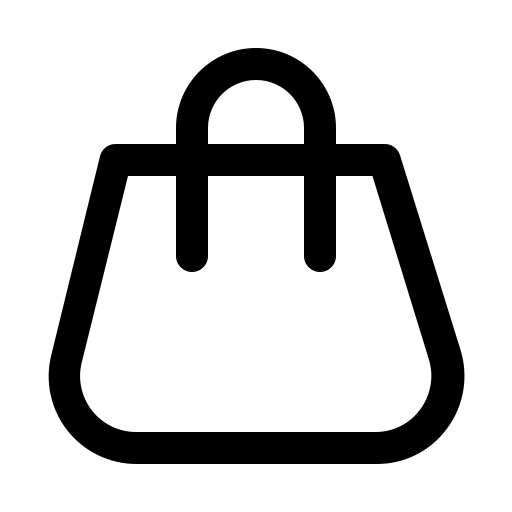
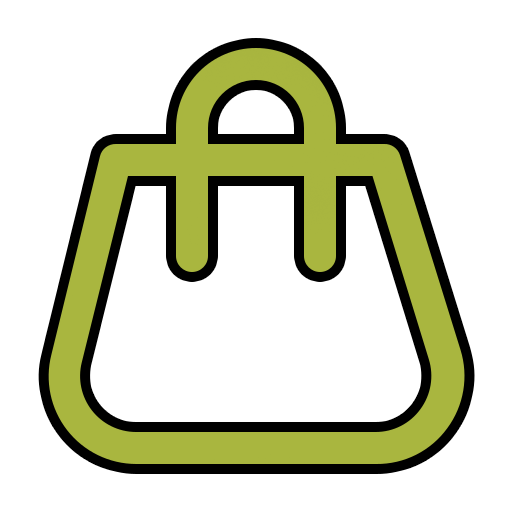
finished first MVP

diff --git a/index.html b/index.html
@@ -4,7 +4,7 @@
     <title>Hleb</title>
     <meta property="og:title" content="TIMHLIB" />
     <meta name="viewport" content="width=device-width, initial-scale=1.0" />
-    <meta charset="utf-8" />
+    <meta charset="utf-8">
     <link
             rel="stylesheet"
             href="https://fonts.googleapis.com/css2?family=Rubik:ital,wght@0,300;0,400;0,500;0,600;0,700;0,800;0,900;1,300;1,400;1,500;1,600;1,700;1,800;1,900&amp;display=swap"
@@ -113,9 +113,7 @@
                               </span>
                                 </p>
                                 <a
-                                        href="https://example.com"
-                                        target="_blank"
-                                        rel="noreferrer noopener"
+                                        href="#about-us"
                                         class="header-link"
                                 >
                                     <span>Почати</span>
@@ -145,9 +143,7 @@
                               </span>
                                 </p>
                                 <a
-                                        href="https://example.com"
-                                        target="_blank"
-                                        rel="noreferrer noopener"
+                                        href="#about-us"
                                         class="header-link"
                                 >
                                     <span>Почати</span>
@@ -165,7 +161,7 @@
                                 <h2 class="header-description">
                               <span>
                               Lorem ipsum dolor sit amet, consectetur adipiscing elit, sed do
-                              eiusmod consectetur tempor incididunt. Lorem ipsum dolor sit amet consectetur adipisicing elit. Corrupti, natus.
+                              eiusmod consectetur tempor incididunt. Lorem ipsum dolor sit amet consectetur.
                               </span>
                                 </h2>
                                 <div class="head_separator" style="width: 100% !important;"></div>
@@ -173,15 +169,12 @@
                               <span>
                               Lorem ipsum dolor sit amet, consectetur adipiscing elit, sed do
                               eiusmod consectetur tempor incididunt.&nbsp;Lorem ipsum dolor
-                              sit. Lorem ipsum, dolor sit amet consectetur adipisicing elit. Ea, temporibus!
+                              sit.
                               </span>
                                 </p>
                                 <a
-                                        href="https://example.com"
-                                        target="_blank"
-                                        rel="noreferrer noopener"
-                                        class="header-link"
-                                >
+                                        href="#about-us"
+                                        class="header-link">
                                     <span>Почати</span>
                                 </a>
                             </div>
@@ -203,7 +196,7 @@
                 <h1 class="about-us-text title_black">Про Компанiю</h1>
                 <div class="separator" id="about-us-separator">
                     <div class="left_separator"></div>
-                    <img src="./img/separator_icon.svg" alt="wheat">
+                    <img src="./img/separator_icon.png" alt="wheat">
                     <div class="right_separator"></div>
                 </div>
                 <p class="about-us-paragraph description_black">
@@ -223,6 +216,7 @@
                                 alt="image"
                                 src="./img/check.png"
                                 class="about_us_icon"
+
                         />
                         <span class="about_icon_description">Контроль Якості</span>
                     </div>
@@ -405,44 +399,44 @@
             <h1 class="home-text17 title_black">Наші Переваги</h1>
             <div class="separator" style="width: 60%" id="benefits-separator">
                 <div class="left_separator"></div>
-                <img src="./img/separator_icon.svg" alt="wheat">
+                <img src="./img/separator_icon.png" alt="wheat">
                 <div class="right_separator"></div>
             </div>
             <div class="home-container04 swiper sample-slider-benefits">
                 <div class="swiper-wrapper">
                     <div class="home-stat05 swiper-slide">
-                        <img alt="image" src="img/clipboard-data.svg" class="svg-perevagy-1">
+                        <img alt="image" src="./img/bag.png" class="svg-perevagy-1">
                         <span class="home-text18">Happy clients</span>
                         <span class="home-text19">
-                     <span>Lorem ipsum dolor sit amet, consectetur adipiscing.</span>
+                     <span>Lorem ipsum dolor sit amet, consectetur.</span>
                      </span>
                     </div>
                     <div class="home-stat05 swiper-slide">
-                        <img alt="image" src="img/check-circle.svg" class="svg-perevagy-1">
+                        <img alt="image" src="./img/wheat.png" class="svg-perevagy-1">
                         <span class="home-text18">Happy clients</span>
                         <span class="home-text19">
-                     <span>Lorem ipsum dolor sit amet, consectetur adipiscing.</span>
+                     <span>Lorem ipsum dolor sit amet, consectetur.</span>
                      </span>
                     </div>
                     <div class="home-stat05 swiper-slide">
-                        <img alt="image" src="img/chat-square-text.svg" class="svg-perevagy-1">
+                        <img alt="image" src="./img/truck.png" class="svg-perevagy-1">
                         <span class="home-text18">Happy clients</span>
                         <span class="home-text19">
-                     <span>Lorem ipsum dolor sit amet, consectetur adipiscing.</span>
+                     <span>Lorem ipsum dolor sit amet, consectetur.</span>
                      </span>
                     </div>
                     <div class="home-stat05 swiper-slide">
-                        <img alt="image" src="img/cash-stack.svg" class="svg-perevagy-1">
+                        <img alt="image" src="./img/factory.png" class="svg-perevagy-1">
                         <span class="home-text18">Happy clients</span>
                         <span class="home-text19">
-                     <span>Lorem ipsum dolor sit amet, consectetur adipiscing.</span>
+                     <span>Lorem ipsum dolor sit amet, consectetur.</span>
                      </span>
                     </div>
                     <div class="home-stat05 swiper-slide">
-                        <img alt="image" src="img/cart.svg" class="svg-perevagy-1">
+                        <img alt="image" src="./img/containers.png" class="svg-perevagy-1">
                         <span class="home-text18">Happy clients</span>
                         <span class="home-text19">
-                     <span>Lorem ipsum dolor sit amet, consectetur adipiscing.</span>
+                     <span>Lorem ipsum dolor sit amet, consectetur.</span>
                      </span>
                     </div>
                 </div>

diff --git a/css/home.css b/css/home.css
@@ -52,21 +52,28 @@
   margin-top: 5px;
 }
 .header-title {
-  color: #84b63f;
+  color: #a9b63f;
   width: 1101px;
   height: 129px;
   font-size: 128px;
   max-width: 895px;
   align-self: center;
   font-style: normal;
-  margin-top: 260px;
+  margin-top: 200px;
   text-align: center;
   font-family: Pacifico;
   font-weight: normal;
   line-height: 115px;
   margin-left: 0px;
   text-transform: uppercase;
+  transition: 0.2s;
 }
+
+.header-title:hover {
+  transition: 0.2s;
+  opacity: 0.8;
+}
+
 .header-description {
   color: rgb(255, 255, 255);
   width: 100%;
@@ -75,7 +82,7 @@
   align-self: center;
   text-align: center;
   line-height: 36px;
-  border-color: #84b63f;
+  border-color: #a9b63f;
   border-width: 1px;
 }
 .header-description1 {
@@ -86,7 +93,7 @@
   font-size: 24px !important;
   align-self: center;
   padding-top: 12px;
-  border-color: #84b63f;
+  border-color: #a9b63f;
   border-width: 3px;
   padding-left: 32px;
   border-radius: 100px;
@@ -98,7 +105,7 @@
 }
 
 .header-link:hover {
-  color: #84b63f;
+  color: #a9b63f;
   font-size: 26px;
   align-self: center;
   padding-top: 12px;
@@ -611,7 +618,7 @@
 }
 .home-text19 {
   color: var(--dl-color-gray-500);
-  font-size: 20px;
+  font-size: 17px;
   margin-top: var(--dl-space-space-halfunit);
   text-align: center;
   font-family: Rubik;
@@ -1754,6 +1761,7 @@
   width: 110px;
   height: 110px;
   margin: 0 !important;
+  fill: red;
 }
 
 .about-us-item {
@@ -1778,7 +1786,7 @@
 .left_separator, .right_separator {
   width: 0;
   height: 1px;
-  background-color: #626262;
+  background-color: #000;
   transition: width 3s;
   transition-timing-function: ease;
 }

diff --git a/css/style.css b/css/style.css
@@ -167,7 +167,7 @@ a {
   border-radius: 56px;
   padding-right: 18px;
   padding-bottom: 10px;
-  background-color: #84b63f;
+  background-color: #a9b63f;
 }
 
 .service {
@@ -213,11 +213,11 @@ a {
   font-weight: 600;
 }
 .about_icon_description {
-  font-size: 35px;
+  font-size: 25px;
   margin-top: 15px;
   text-align: center;
   font-family: Rubik;
-  color: #a9b63f;
+  color: #000;
 }
 .about_icon {
   width: 120px;
